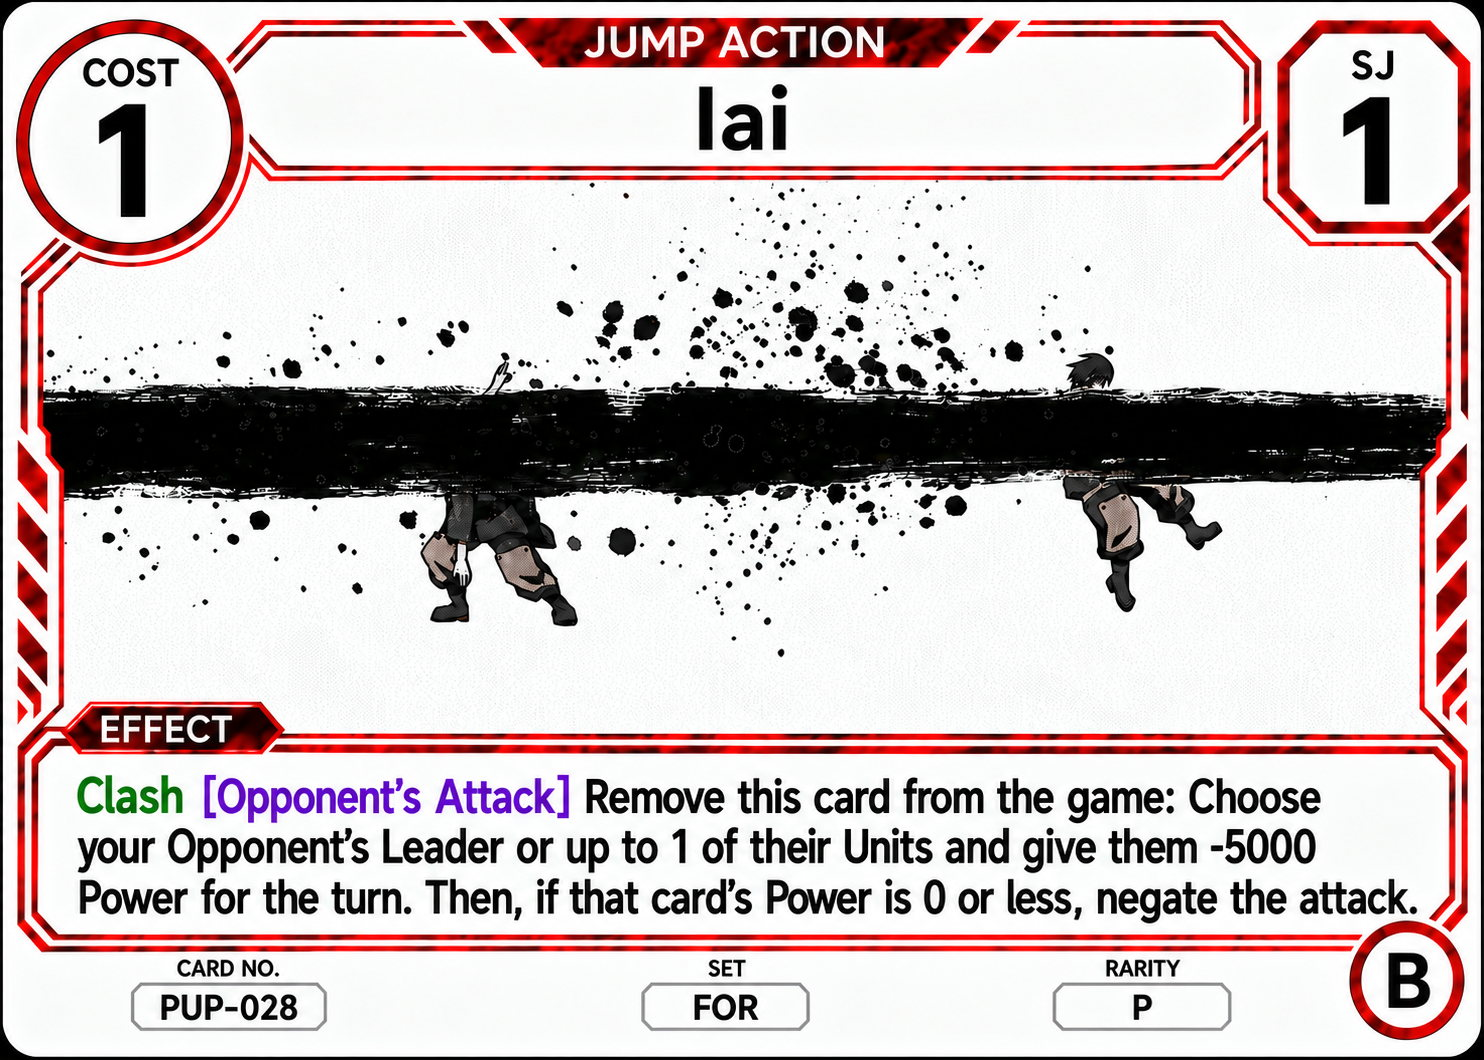
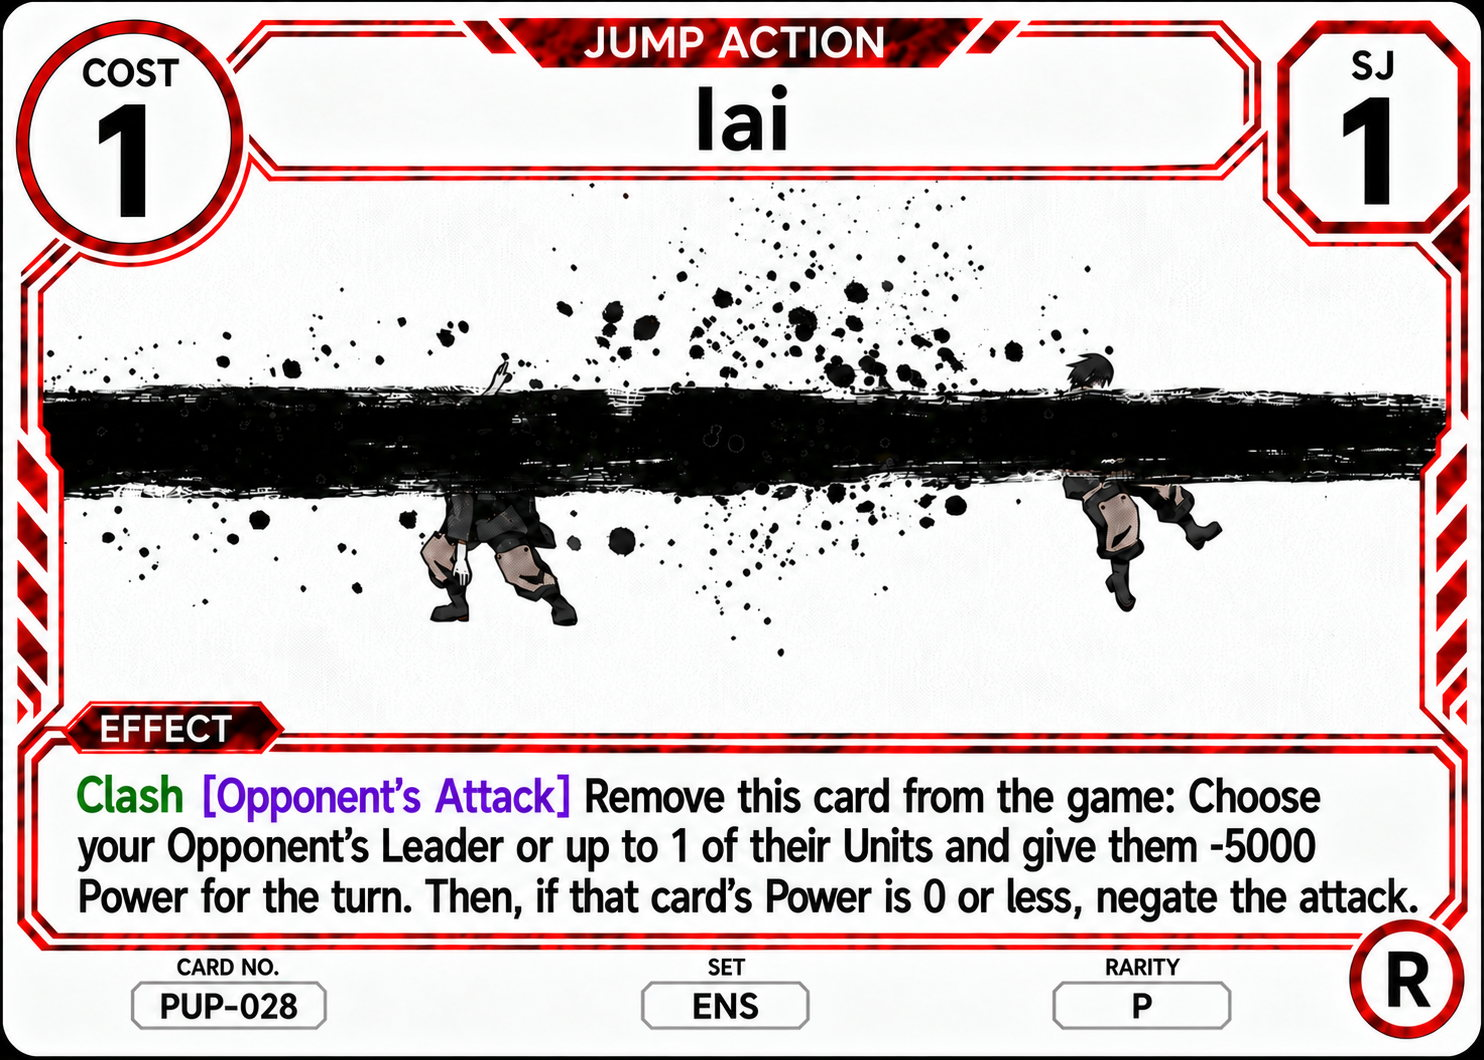
Apply corrected ENS labels to Fire Force promos

diff --git a/card-text-data.js b/card-text-data.js
@@ -23519,7 +23519,7 @@ window.SJTCG_CARD_TEXT = {
     "traits": "",
     "set": "ENS",
     "rarity": "P",
-    "bottom_right_circle": "B",
+    "bottom_right_circle": "R",
     "effect": "Clash [Activate: Battle] Remove this card from the game: Give your Unit that's in a battle +2000 Power for the battle. Then, choose your Opponent's card that's in a battle and give it -2000 Power for the turn.",
     "effect_html": "<span class=\"kw kw-green\" title=\"Clash\">Clash</span> <span class=\"kw kw-purple\" title=\"Timing window\">[Activate: Battle]</span> Remove this card from the game: Give your Unit that&#x27;s in a battle +2000 Power for the battle. Then, choose your Opponent&#x27;s card that&#x27;s in a battle and give it -2000 Power for the turn.",
     "notes": "",
@@ -23588,7 +23588,7 @@ window.SJTCG_CARD_TEXT = {
     "traits": "",
     "set": "ENS",
     "rarity": "P",
-    "bottom_right_circle": "B",
+    "bottom_right_circle": "R",
     "effect": "Clash [Opponent's Attack] Remove this card from the game: Choose your Opponent's Leader or up to 1 of their Units and give them -5000 Power for the turn. Then, if that card's Power is 0 or less, negate the attack.",
     "effect_html": "<span class=\"kw kw-green\" title=\"Clash\">Clash</span> <span class=\"kw kw-purple\" title=\"Timing window\">[Opponent&#x27;s Attack]</span> Remove this card from the game: Choose your Opponent&#x27;s Leader or up to 1 of their Units and give them -5000 Power for the turn. Then, if that card&#x27;s Power is 0 or less, negate the attack.",
     "notes": "",

diff --git a/cards-data.js b/cards-data.js
@@ -12670,7 +12670,7 @@ window.SJTCG_CARD_DATA = [
     "cardType": "Main Deck",
     "deckLimit": 1,
     "orientation": "Landscape",
-    "imageVersion": "2755ed0a18fa"
+    "imageVersion": "e11e1080e633"
   },
   {
     "number": "PUP-026",
@@ -12706,7 +12706,7 @@ window.SJTCG_CARD_DATA = [
     "cardType": "Main Deck",
     "deckLimit": 1,
     "orientation": "Landscape",
-    "imageVersion": "796b9005a6df"
+    "imageVersion": "75a96e2815e6"
   },
   {
     "number": "PUP-029",

diff --git a/index.html b/index.html
@@ -213,8 +213,8 @@
     </section>
   </div>
 
-  <script src="cards-data.js?v=d53a94523b47"></script>
-  <script src="card-text-data.js?v=e2df8bbe9b85"></script>
+  <script src="cards-data.js?v=d938a5c29ffb"></script>
+  <script src="card-text-data.js?v=990d78bd156b"></script>
   <script src="app.js?v=20261009-reprint-search-2"></script>
 </body>
 </html>
